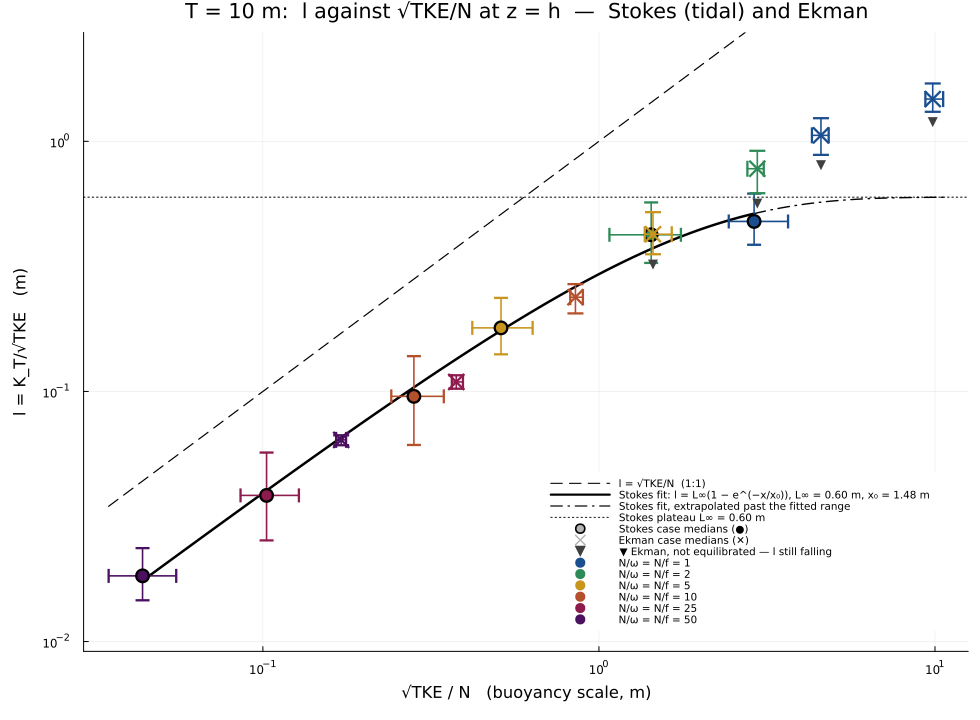
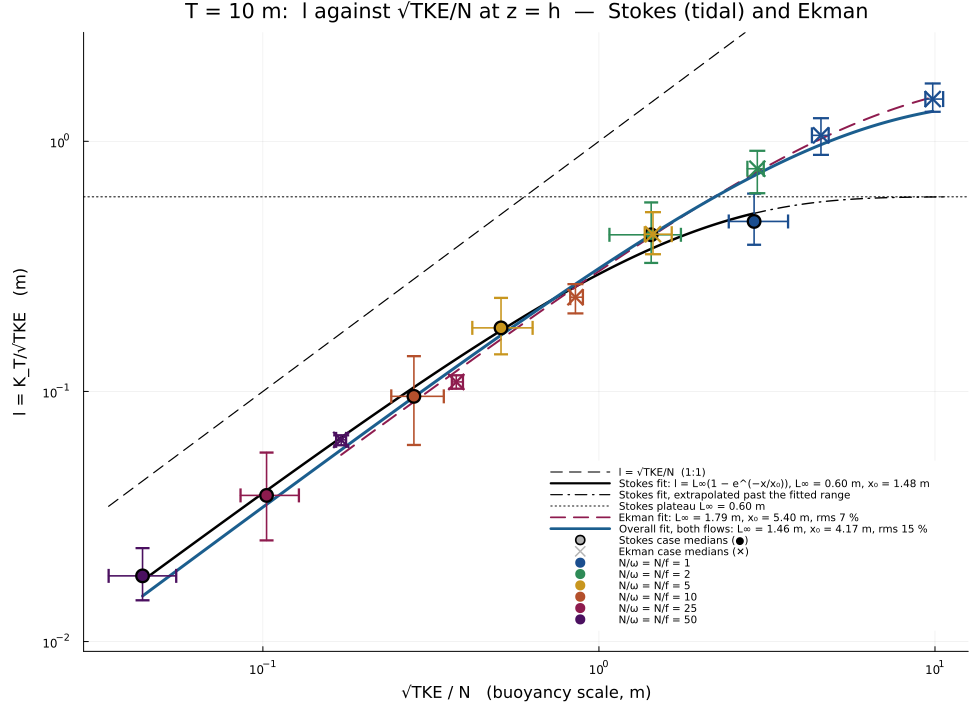
Combined: drop the equilibration markers, add an overall fit through both flows
The non-equilibration flag is removed from both figures — the drift is still
reported in the log and the README, but it was cluttering the plots and its
vertical placement encoded nothing.

Three fits are now drawn: Stokes alone, Ekman alone, and one overall curve
through all thirteen case medians.

    Stokes    6 cases   L = 0.60 m   x0 = 1.48 m   rms  7.5 %
    Ekman     7 cases   L = 1.79 m   x0 = 5.40 m   rms  7.5 %
    Overall  13 cases   L = 1.46 m   x0 = 4.17 m   rms 14.9 %

Each flow alone follows the saturating form to 7.5 %; one curve through both is
twice as bad. The two do not collapse onto a single mixing-length law at T = 10
m — they agree below sqrt(TKE)/N ~ 1 and separate above it, differing mainly in
L. Caveats in the README: the Ekman L is pinned by the four cases whose l is
still falling, so it is likely an overestimate, and neither dataset reaches its
plateau.

fit_sat now searches a much wider grid and reports whether the best point landed
on a grid edge, so the silent pinning that produced the bogus L = 0.300 m
earlier cannot recur unnoticed.

diff --git a/Combined/README.md b/Combined/README.md
@@ -130,6 +130,37 @@ two at `N/f = 50`, which is why those points sat off the curve.
 With both sides on the whole flux, the three Ekman cases that have equilibrated
 land on the Stokes fit — `l/l_fit` = 0.91, 0.81, 0.98 at `N/f` = 10, 25, 50.
 
+### The fits
+
+`l = L∞(1 − e^(−x/x₀))`, fitted to the case medians in log `l`. Three are drawn:
+each flow alone, and one overall curve through all thirteen cases.
+
+| fit | cases | `L∞` | `x₀` | rms in `l` |
+|---|---|---|---|---|
+| Stokes | 6 | 0.60 m | 1.48 m | 7.5 % |
+| Ekman | 7 | 1.79 m | 5.40 m | 7.5 % |
+| **Overall, both flows** | 13 | **1.46 m** | **4.17 m** | **14.9 %** |
+
+Each flow on its own is described well by the saturating form, to 7.5 %. One
+curve through both is twice as bad, and the reason is visible in the figure: the
+overall fit is dragged up by the Ekman points and then misses the two largest
+Stokes cases by about a factor of two. **The two flows do not collapse onto a
+single mixing-length law at T = 10 m** — they agree closely below
+`√TKE/N ≈ 1` and separate above it, differing mainly in `L∞`, 0.60 m against
+1.79 m.
+
+Two things temper that. The Ekman `L∞` is set by the four cases whose `l` has
+not equilibrated and is still falling, so it is probably too high and the true
+separation is smaller than a factor of three. And neither dataset reaches its
+plateau — the largest case is at 86 % (Stokes) and 84 % (Ekman) of its fitted
+`L∞` — so both `L∞` values are extrapolations and carry more uncertainty than
+the rms suggests.
+
+`fit_sat` searches `L∞ ∈ [0.05, 4.0]` and `x₀ ∈ [0.02, 20]` by brute force and
+reports whether the best point landed on a grid edge. It does that because an
+earlier version searched only `L∞ ≤ 1.60` and silently returned the lower edge,
+0.300 m, for a fit that had too few points to be constrained at all.
+
 ### A caveat on the weakly stratified cases
 
 Doubling the duration to 12.73 inertial periods helped but did not finish the
@@ -151,13 +182,11 @@ upper bounds on the converged `l`, not lower bounds. They are exactly the points
 sitting above the Stokes curve at large √TKE/N, and they are still moving towards
 it. Whether the excess survives to equilibrium cannot be settled from this record.
 
-The figure draws them as a bar spanning the median of `l` over the first quarter
-of the window to the median over the last, with ▼ at the latest value, rather
-than as a single symbol.
-
-Because only three cases have equilibrated, no independent Ekman fit is drawn: a
-two-parameter saturating curve through three points is not a fit, and the attempt
-pinned `L∞` to the edge of the search grid.
+The figures no longer mark these cases — the drift is reported here and in
+`logs/plot_l_vs_qN_T10_combined.log` instead. It still matters for reading the
+fits below: the four drifting cases are the ones at large `√TKE/N`, so they are
+what pins the Ekman `L∞`, and since their `l` is still falling that `L∞` is
+likely an overestimate.
 
 ### First attempt, 2026-09-02: all seven cases failed
 
